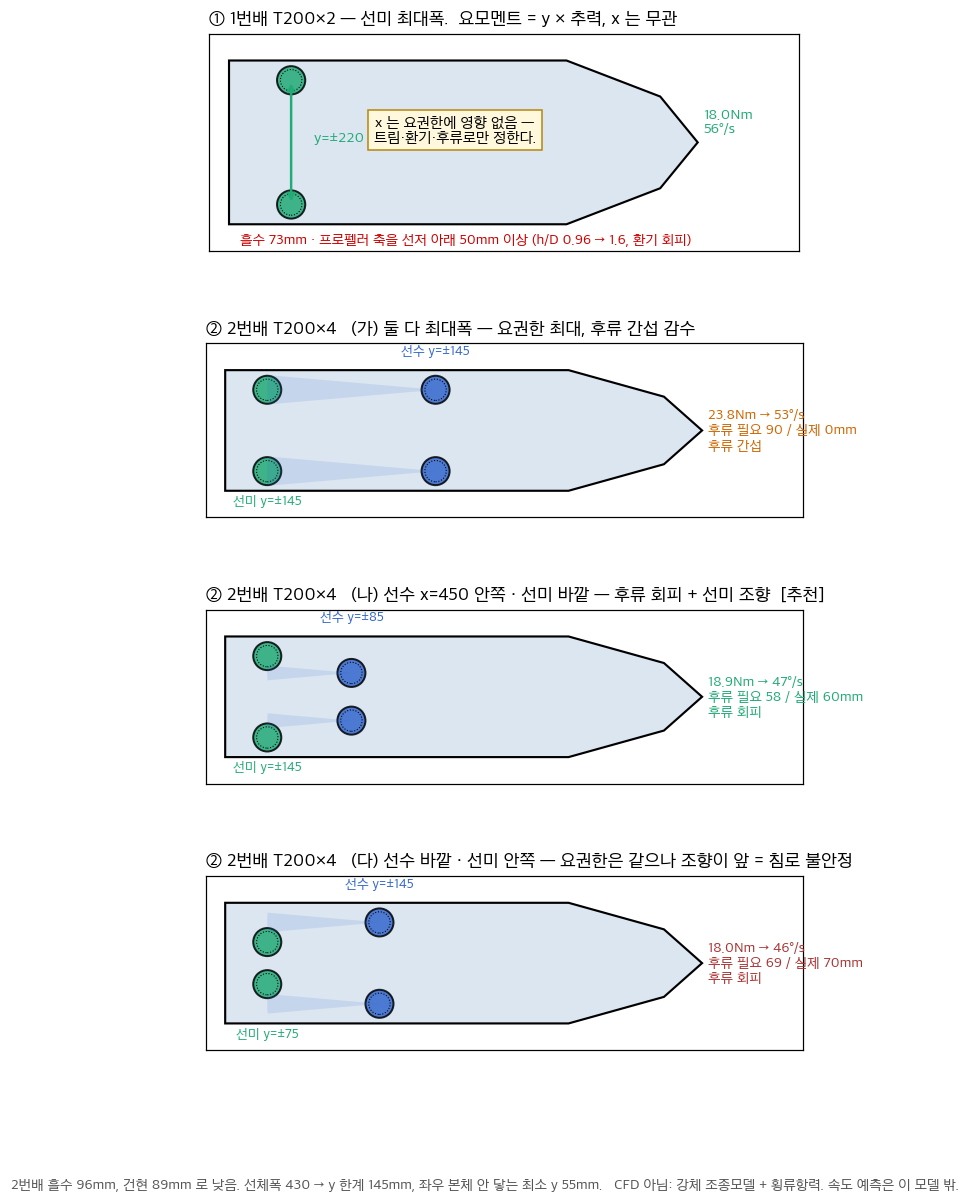
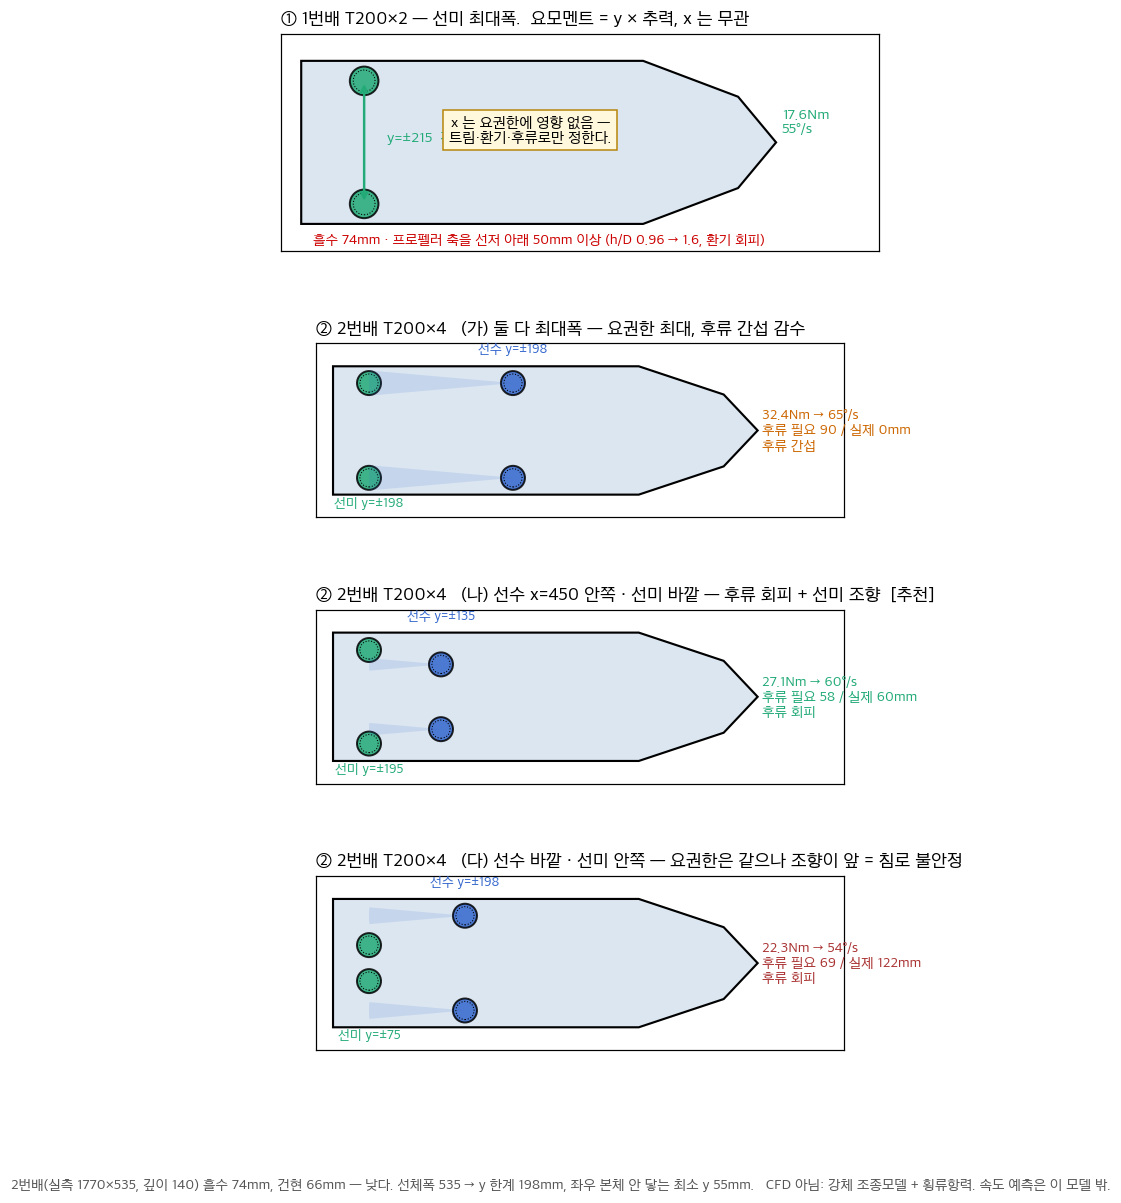
docs: 2번배 스러스터 배치 재해석 — 실측 1770×535×140: 선미 ±195, 선수 x450 ±135 (60°/s), 건현 66mm@35kg 경고, D1 격상

diff --git a/tools/thruster_layout.py b/tools/thruster_layout.py
@@ -17,8 +17,10 @@ K    = lambda L_m,d_m: RHO*CD*d_m*L_m**4/32.
 rate = lambda N,k: math.degrees(math.sqrt(N/k))
 Nm   = lambda ys,yb=0.: (ys+yb)/1e3*(T_F+T_R)                   # y in mm -> Nm
 
-L1,B1=1660.,580.; d1=m/(RHO*(L1/1e3)*(B1/1e3)*CB)*1e3; k1=K(L1/1e3,d1/1e3); y1=B1/2-DB/2-20
-L2,B2=1700.,430.; d2=m/(RHO*(L2/1e3)*(B2/1e3)*CB)*1e3; k2=K(L2/1e3,d2/1e3); y2=B2/2-DB/2-20
+# 1번배: 2026-09-28 줄자 실측 (스러스터·러더 포함 폭 570)
+L1,B1=1660.,570.; d1=m/(RHO*(L1/1e3)*(B1/1e3)*CB)*1e3; k1=K(L1/1e3,d1/1e3); y1=B1/2-DB/2-20
+# 2번배: 2026-10-24 줄자 실측 (설계 1700×430 아님). 선체 깊이 140
+L2,B2=1770.,535.; d2=m/(RHO*(L2/1e3)*(B2/1e3)*CB)*1e3; k2=K(L2/1e3,d2/1e3); y2=B2/2-DB/2-20
 Y_MIN = DB/2+5                                                   # 좌우 본체 안 닿는 최소 y
 X_S   = 150.
 
@@ -71,7 +73,7 @@ for i,(t,xb,yb,ys,c) in enumerate(opts):
     ok = abs(ys-yb)>=need
     ax.text(L2+20,0,f"{N:.1f}Nm → {rate(N,k2):.0f}°/s\n후류 필요 {need:.0f} / 실제 {abs(ys-yb):.0f}mm"
             f"\n{'후류 회피' if ok else '후류 간섭'}",fontsize=9.5,color=c,va="center")
-fig.text(.5,.004,f"2번배 흘수 {d2:.0f}mm, 건현 {185-d2:.0f}mm 로 낮음. 선체폭 430 → y 한계 {y2:.0f}mm, 좌우 본체 안 닿는 최소 y {Y_MIN:.0f}mm."
+fig.text(.5,.004,f"2번배(실측 1770×535, 깊이 140) 흘수 {d2:.0f}mm, 건현 {140-d2:.0f}mm — 낮다. 선체폭 535 → y 한계 {y2:.0f}mm, 좌우 본체 안 닿는 최소 y {Y_MIN:.0f}mm."
          "   CFD 아님: 강체 조종모델 + 횡류항력. 속도 예측은 이 모델 밖.",ha="center",fontsize=9.5,color="#555")
 out=os.path.join(os.path.dirname(os.path.abspath(__file__)),"..","docs","전달용","배치도","thruster_layout.png")
 os.makedirs(os.path.dirname(out),exist_ok=True)

diff --git a/docs/전달용/스러스터_배치_해석.md b/docs/전달용/스러스터_배치_해석.md
@@ -107,3 +107,48 @@ if (It_is_Aship == 1) {   // 코드는 1을 검사 → B배 분기가 절대 안
   출력이 좌/우 2채널이고 한 신호를 그 측의 ESC 가 나눠 받기 때문이다(2026-09-28 확인).
   "4채널(선수 좌/우 + 선미 좌/우)" 는 구현된 적 없는 옛 설계 표기다.
   이 문서 §1 의 "요 모멘트 = y × 추력" 은 그대로 성립한다(1번배는 좌우 쌍 하나로 차동).
+
+---
+
+## 부록 (2026-10-24) — 2번배 줄자 실측 반영: 1770 × 535, 선체 깊이 140
+
+위 §3 은 설계값(1700×430, 깊이 185)으로 푼 것이다. 10-24 실측이 들어와 다시 돌렸다(`tools/thruster_layout.py` 상수 교체).
+STL 은 이 Mac 에 없어 선저 형상은 여전히 못 봤다 — 아래는 강체 모델 결과다.
+
+### 바뀐 것 둘
+
+**① 폭 +105mm → 선미를 더 벌릴 수 있다.** 본체 Ø100 이 선체 안에 들어오는 y 한계 145 → **198**.
+
+| 안 | 선미 (x=150) | 선수 | 요모멘트 | 요레이트 | 후류 (필요/실제) | 판정 |
+|---|---|---|---|---|---|---|
+| 옛 추천 (설계값) | ±145 | x450 ±85 | 18.9 Nm | 50°/s | 58 / 60 | — |
+| **새 추천** | **±195** | **x450 ±135** | **27.1 Nm** | **60°/s** | 58 / 60 | 선미바깥, 회피 ✓ |
+| 여유안 | ±195 | x550 ±125 | 26.2 Nm | 59°/s | 69 / 70 | 후류 여유 같음, 선수기가 10cm 더 앞 |
+| 선미 2기만 | ±198 | — | 16.2 Nm | 46°/s | — | 1번배와 같은 구성. 4기 쓰는 의미가 요레이트 +30% |
+
+→ **선미 y=±195 (좌우 본체 바깥면이 선체 폭 535 에 딱 맞음), 선수 x=450 y=±135.** 후류 여유가 2mm 뿐이라 실제 장착에서 선미 쪽을 더 못 벌리면 선수 y 를 **±125~130** 으로 안쪽으로 당긴다(요레이트 −1°/s 로 손해 없음).
+
+**② 🚨 건현.** 선체 깊이가 **140mm** 다(설계 185). 방형계수 0.5 가정:
+
+| 전비 질량 | 흘수 | 건현 |
+|---|---|---|
+| 30 kg | 63 | 77 |
+| 35 kg | 74 | **66** |
+| 40 kg | 84 | **56** |
+| 45 kg | 95 | **45** |
+
+4기 + 배터리 2 + 박스 + 노트북이면 35kg 은 넘긴다. **건현 5~6cm** 는 파고 10cm 수역에서 물이 넘는다.
+오픈 헐이라 갑판(B5)이 막아 주지만, 갑판 위로 물이 올라오면 관통부 A·B·C 가 전부 젖는다.
+→ **D1(흘수 실측)을 4기·배터리 장착 상태로 당장 한다.** 건현 < 60mm 면 질량을 빼거나 측면 부력을 붙여야 한다.
+
+**③ 환기는 괜찮다.** 흘수 74mm 에서 축을 선저 아래 50mm 두면 h/D = 1.63. 1번배(50mm 룰)와 같은 룰로 간다.
+
+### 장착 지시 (2번배)
+- 선미 2기: 트랜섬 뒤, 중심선에서 **±195mm**, 프로펠러 축 **선저 아래 ≥50mm**. 본체 바깥면 = 선체 폭 끝. 폭이 535 를 넘지 않는다 → `half_width 0.29` 유지.
+- 선수 2기: 선미에서 **450mm 앞**, 중심선에서 **±135mm**(±125 까지 허용), 축 깊이 동일. 그 자리 선저에 평면이 있는지는 **STL 로 확인** — 뾰족한 선수라 x450 은 아직 폭이 충분한 구간이지만 바닥 V 각도는 모른다.
+- 4기 다 선체 폭 안쪽. **폭 실측 0.535 가 스러스터 제외였어도** 이 배치면 안 늘어난다.
+
+### 이 해석이 못 본 것
+- 선저 형상·V 각(STL 없음). 선수기 브래킷 각도는 실물에서.
+- 실제 질량 → 건현. D1 이 전부를 정한다.
+- 1번배 폭 570 은 스러스터 포함값이라 1번배 쪽 y 한계는 바꾸지 않았다.

diff --git a/docs/문제와작업/과제_목록_전체.md b/docs/문제와작업/과제_목록_전체.md
@@ -63,7 +63,7 @@
 
 | # | 과제 | 상태 | 담당 | 선행 | 근거 |
 |---|---|---|---|---|---|
-| D1 | 흘수(건현) 실측 두 배 → 배치 요구사항 §3 갱신 | ⬜ | 선체 | B5 | 배치 요구사항 §6 |
+| D1 | 🚨 **흘수(건현) 실측 두 배** → 배치 요구사항 §3 갱신. **2번배 선체 깊이 140mm(10-24 실측)** — 35kg 이면 건현 66, 45kg 이면 45mm. 4기·배터리 장착 상태로 재서 **건현 < 60mm 면 질량 감량 or 측면 부력** | ⬜ | 선체 | B5 | 스러스터_배치_해석 부록(10-24) |
 | D2 | ⚡ 🚨 조향 좌/우 부호 — **수동은 09-07 물 위에서 확인 완료**(좌우 정상). 남은 것은 **자율 `steer_invert`** 뿐 | 🔄 | 소프트 | C1 ✅, C5 | §18, CLAUDE.md §8 |
 | D3 | 선폭·순항 PWM·후진 PWM 실측 → `boat_a/b.yaml` | ⬜ | 소프트 | D2 | CLAUDE.md §8 |
 | D4 | LiDAR 가 부표를 보는가 (블랙박스 `obstacle_min_dist`) | ⬜ | LiDAR 담당 | A1, B6 | CLAUDE.md §8 |
